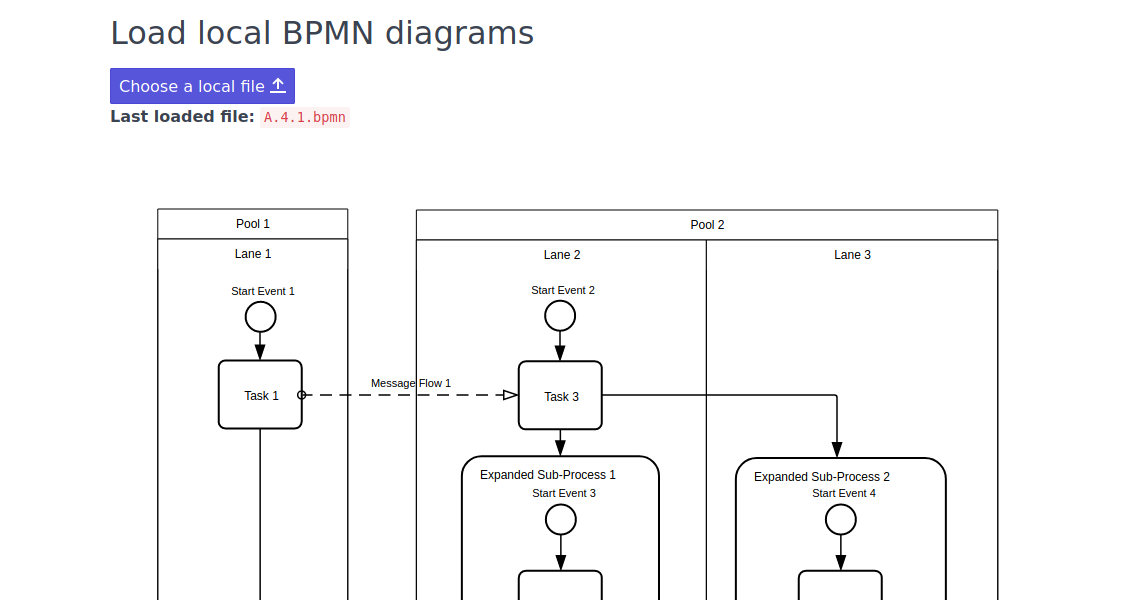
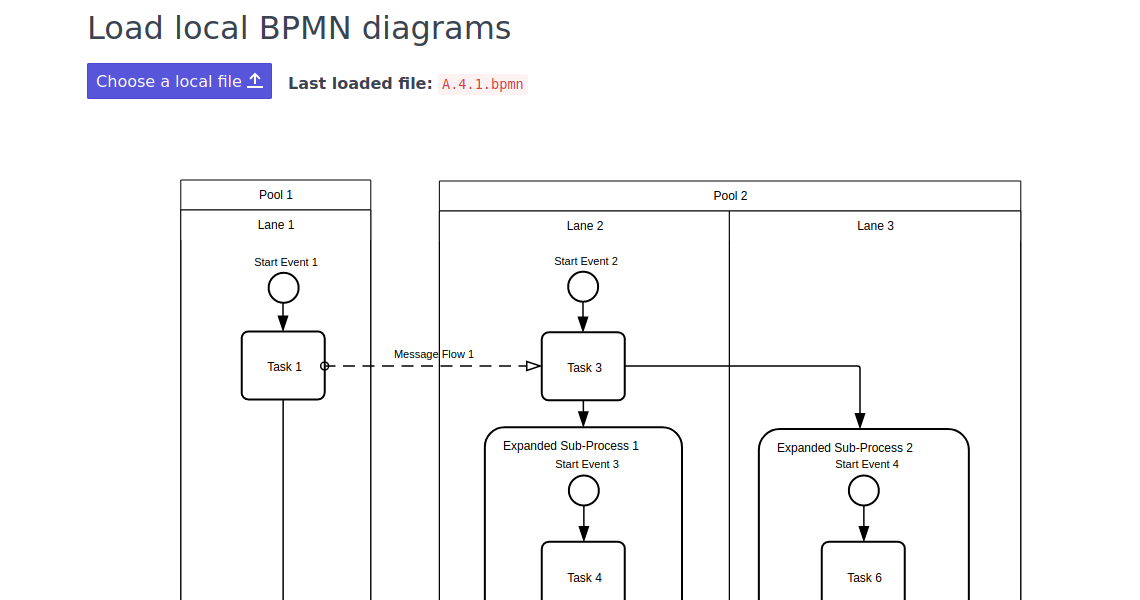
'load local file': improve design of the 'loaded file' zone

diff --git a/examples/load-local-bpmn-diagrams/index.html b/examples/load-local-bpmn-diagrams/index.html
@@ -36,6 +36,14 @@ limitations under the License.
             overflow-y: hidden;
             padding-bottom: 100px;
         }
+        #file-selector {
+            float: left;
+        }
+        #loading-info {
+            float: left;
+            padding-top: 0.5em;
+            margin-left: 1em;
+        }
         .hidden {
             display: none !important;
         }
